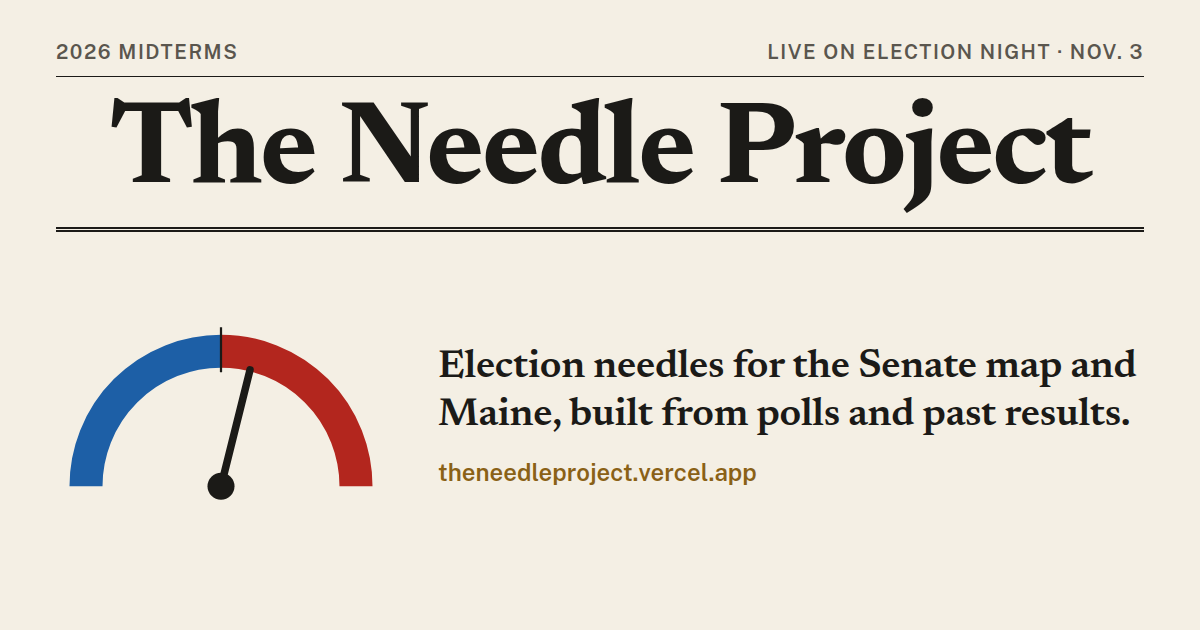
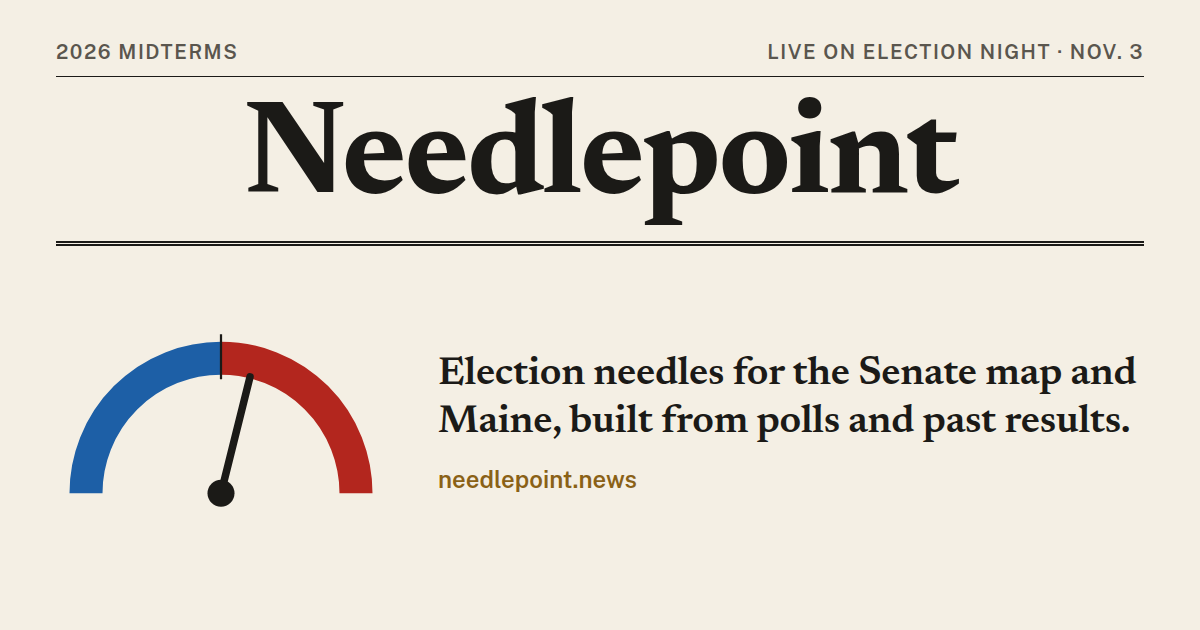
Update 48: rename to Needlepoint (needlepoint.news)

diff --git a/index.html b/index.html
@@ -3,8 +3,8 @@
   <head>
     <meta charset="UTF-8" />
     <meta name="viewport" content="width=device-width, initial-scale=1.0" />
-    <title>The Needle Project | 2026 Senate Election Needles &amp; Polling Averages</title>
-    <link rel="canonical" href="https://theneedleproject.vercel.app/" />
+    <title>Needlepoint | 2026 Senate Election Needles &amp; Polling Averages</title>
+    <link rel="canonical" href="https://needlepoint.news/" />
     <meta name="robots" content="index, follow" />
     <link rel="icon" type="image/svg+xml" href="/favicon.svg" />
     <link rel="preconnect" href="https://fonts.googleapis.com" />
@@ -15,19 +15,19 @@
     <link rel="apple-touch-icon" href="/apple-touch-icon.png" />
     <meta name="apple-mobile-web-app-capable" content="yes" />
     <meta name="apple-mobile-web-app-status-bar-style" content="default" />
-    <meta name="apple-mobile-web-app-title" content="Needle Project" />
+    <meta name="apple-mobile-web-app-title" content="Needlepoint" />
     <meta name="description" content="Live 2026 Senate election needles and polling averages for Maine, North Carolina, Texas, Ohio, Iowa, Georgia, Michigan, New Hampshire, Nebraska and Alaska. Built by Colin Blais." />
     <meta property="og:type" content="website" />
-    <meta property="og:title" content="The Needle Project" />
+    <meta property="og:title" content="Needlepoint" />
     <meta property="og:description" content="Poll-driven election needles for the 2026 races, live on election night." />
-    <meta property="og:url" content="https://theneedleproject.vercel.app/" />
-    <meta property="og:image" content="https://theneedleproject.vercel.app/og-image.png?v=3" />
+    <meta property="og:url" content="https://needlepoint.news/" />
+    <meta property="og:image" content="https://needlepoint.news/og-image.png?v=4" />
     <meta property="og:image:width" content="1200" />
     <meta property="og:image:height" content="630" />
     <meta name="twitter:card" content="summary_large_image" />
-    <meta name="twitter:title" content="The Needle Project" />
+    <meta name="twitter:title" content="Needlepoint" />
     <meta name="twitter:description" content="Poll-driven election needles for the 2026 races, live on election night." />
-    <meta name="twitter:image" content="https://theneedleproject.vercel.app/og-image.png?v=3" />
+    <meta name="twitter:image" content="https://needlepoint.news/og-image.png?v=4" />
     <!-- Google Analytics 4 -->
     <script async src="https://www.googletagmanager.com/gtag/js?id=G-Q7E3Z0CC9K"></script>
     <script>
@@ -40,8 +40,9 @@
       {
         "@context": "https://schema.org",
         "@type": "WebSite",
-        "name": "The Needle Project",
-        "url": "https://theneedleproject.vercel.app/",
+        "name": "Needlepoint",
+        "alternateName": "The Needle Project",
+        "url": "https://needlepoint.news/",
         "description": "Live 2026 Senate election needles and polling averages.",
         "author": { "@type": "Person", "name": "Colin Blais" }
       }
@@ -54,7 +55,7 @@
   <body>
     <div id="root"></div>
     <noscript>
-      <h1>The Needle Project</h1>
+      <h1>Needlepoint</h1>
       <p>Live 2026 Senate election needles and polling averages for Maine (Collins vs. Jackson), North Carolina, Texas, Ohio, Iowa, Georgia, Michigan, New Hampshire, Nebraska and Alaska. Turn on JavaScript to see the needles.</p>
     </noscript>
     <script type="module" src="/src/main.jsx"></script>

diff --git a/src/MaineDashboard.jsx b/src/MaineDashboard.jsx
@@ -725,9 +725,9 @@ export default function MaineDashboard() {
     </p>
   );
   const titleBtn = (size) => (
-    <button onClick={() => go("dashboard")} aria-label="The Needle Project, home"
+    <button onClick={() => go("dashboard")} aria-label="Needlepoint, home"
       style={{ background: "none", border: "none", padding: 0, margin: 0, cursor: "pointer", color: C.text, fontFamily: serif, fontWeight: 700, fontSize: size, letterSpacing: size > 40 ? -1.5 : -0.8, lineHeight: 1 }}>
-      The Needle Project
+      Needlepoint
     </button>
   );
   const navLink = (on) => ({ background: "none", border: "none", cursor: "pointer", color: C.text, fontSize: 15, fontWeight: on ? 700 : 500, padding: "4px 0 3px", borderBottom: `2px solid ${on ? C.text : "transparent"}` });
@@ -1145,7 +1145,7 @@ function SupportBlock({ compact }) {
   return (
     <section style={{ display: "flex", flexDirection: compact ? "column" : "row", alignItems: compact ? "stretch" : "center", justifyContent: "space-between", gap: compact ? 12 : 40, marginTop: 40, paddingTop: 22, borderTop: `3px double ${C.text}` }}>
       <div style={{ display: "flex", flexDirection: "column", gap: 6, maxWidth: 760 }}>
-        <span style={{ fontFamily: serif, fontSize: compact ? 22 : 26, fontWeight: 600 }}>Support the Needle Project</span>
+        <span style={{ fontFamily: serif, fontSize: compact ? 22 : 26, fontWeight: 600 }}>Support Needlepoint</span>
         <span style={{ fontFamily: serif, fontSize: compact ? 16 : 18, lineHeight: 1.5, color: C.body }}>It's free, ad-free and built by one person. If it's useful to you, you can chip in to keep it running through election night.</span>
       </div>
       <a href={COFFEE_URL} target="_blank" rel="noopener noreferrer"
@@ -2123,6 +2123,7 @@ function MethodView({ wide }) {
         </div>
         {note("Ranked-choice races", "Maine's Senate and House races and Alaska's Senate race use ranked-choice voting. The needle tracks first choices. Alaska's ranked rounds are counted about two weeks later, so its needle is a polling forecast that doesn't move on election night.")}
         {note("Where the data comes from", "Polls from public releases, and results from the official files each state's election office publishes. No paid data and no copying from news sites.")}
+        {note("About the name", "Needlepoint was called The Needle Project until October 2026. Same site, same needles, shorter name.")}
       </aside>
     </section>
   );

diff --git a/api/feed-check.js b/api/feed-check.js
@@ -7,7 +7,7 @@ import { aggregate } from "../scripts/lib/aggregate.mjs";
 import { fetchRows } from "../scripts/lib/fetch-rows.mjs";
 import COUNTIES from "../scripts/lib/counties.mjs";
 
-const ALLOWED = [/\.gov$/i, /\.us$/i, /(^|\.)clarityelections\.com$/i, /(^|\.)enhancedvoting\.com$/i, /(^|\.)texas-election\.com$/i, /^theneedleproject\.vercel\.app$/i]; // last one: our own backup copies in public/official/
+const ALLOWED = [/\.gov$/i, /\.us$/i, /(^|\.)clarityelections\.com$/i, /(^|\.)enhancedvoting\.com$/i, /(^|\.)texas-election\.com$/i, /^theneedleproject\.vercel\.app$/i, /^(www\.)?needlepoint\.news$/i]; // last one: our own backup copies in public/official/
 const s3ok = (u) => u.hostname === "s3.amazonaws.com" && u.pathname.startsWith("/dl.ncsbe.gov/");
 const esc = (s) => s.replace(/[.*+?^${}()|[\]\\]/g, "\\$&");
 

diff --git a/public/sw.js b/public/sw.js
@@ -1,9 +1,9 @@
-// The Needle Project — service worker.
+// Needlepoint (formerly The Needle Project) — service worker.
 // Strategy: network-first for everything, falling back to the last cached copy.
 // This keeps polls/results fresh when online, but still opens the app (with the
 // most recent needles) if the network is flaky on election night. Bump CACHE
 // to invalidate old caches on a new deploy.
-const CACHE = "needle-v3";
+const CACHE = "needle-v4";
 const CORE = ["/", "/index.html", "/favicon.svg", "/icon-192.png", "/icon-512.png", "/manifest.webmanifest"];
 
 self.addEventListener("install", (e) => {
